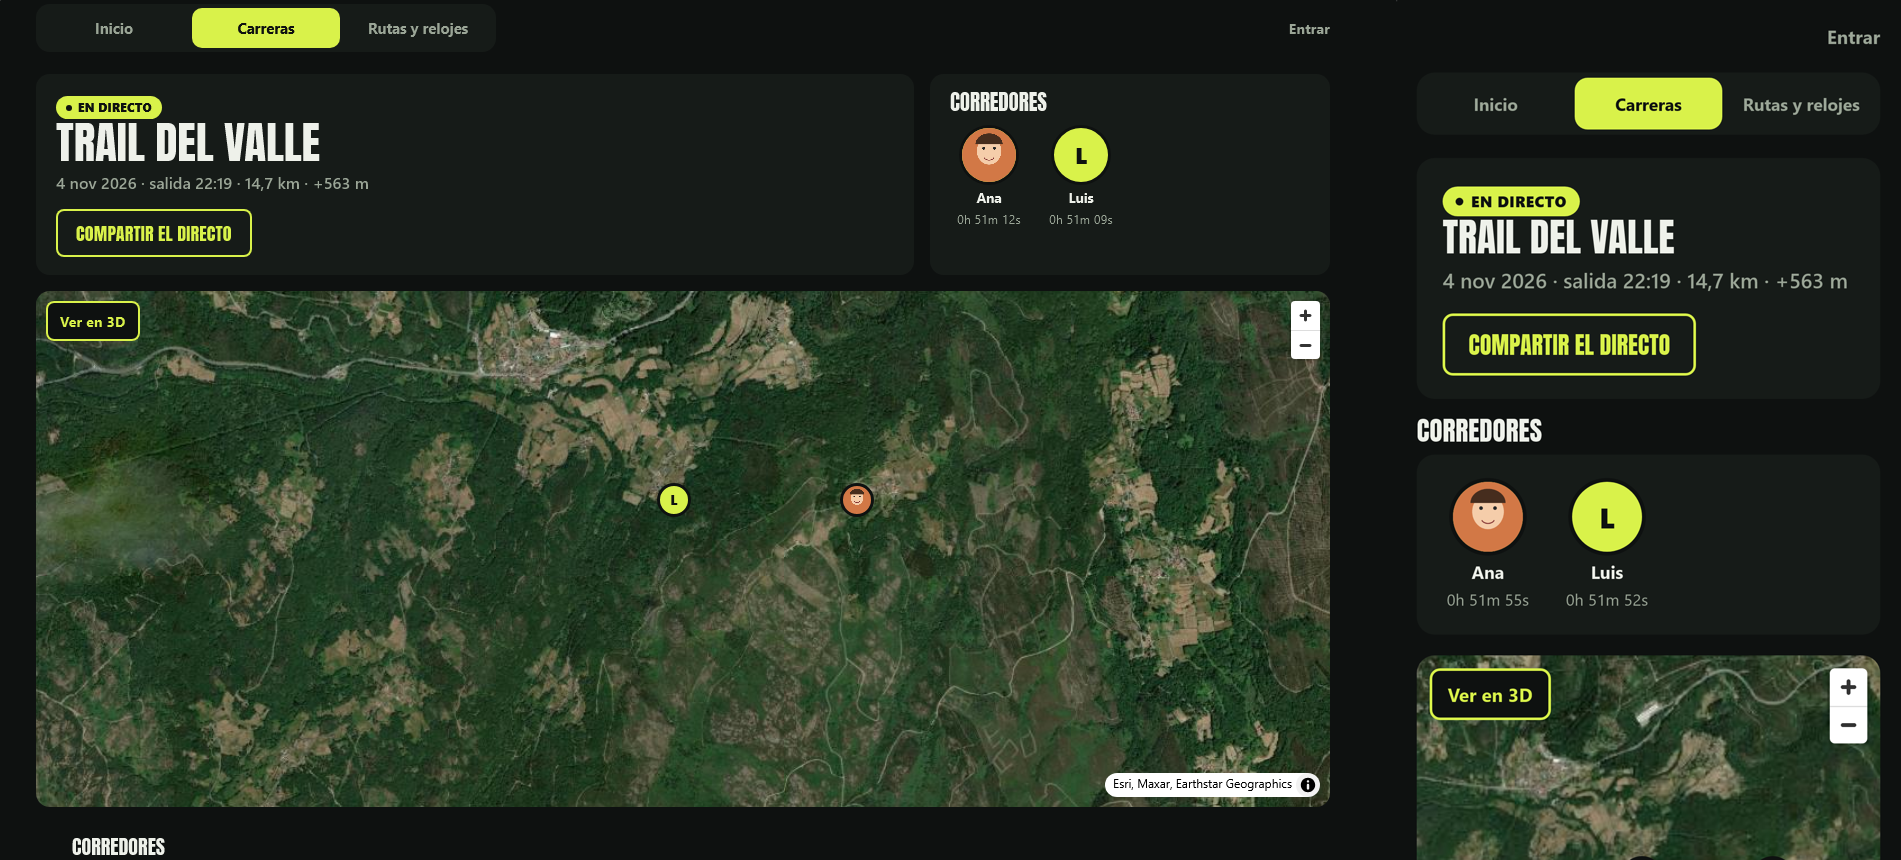
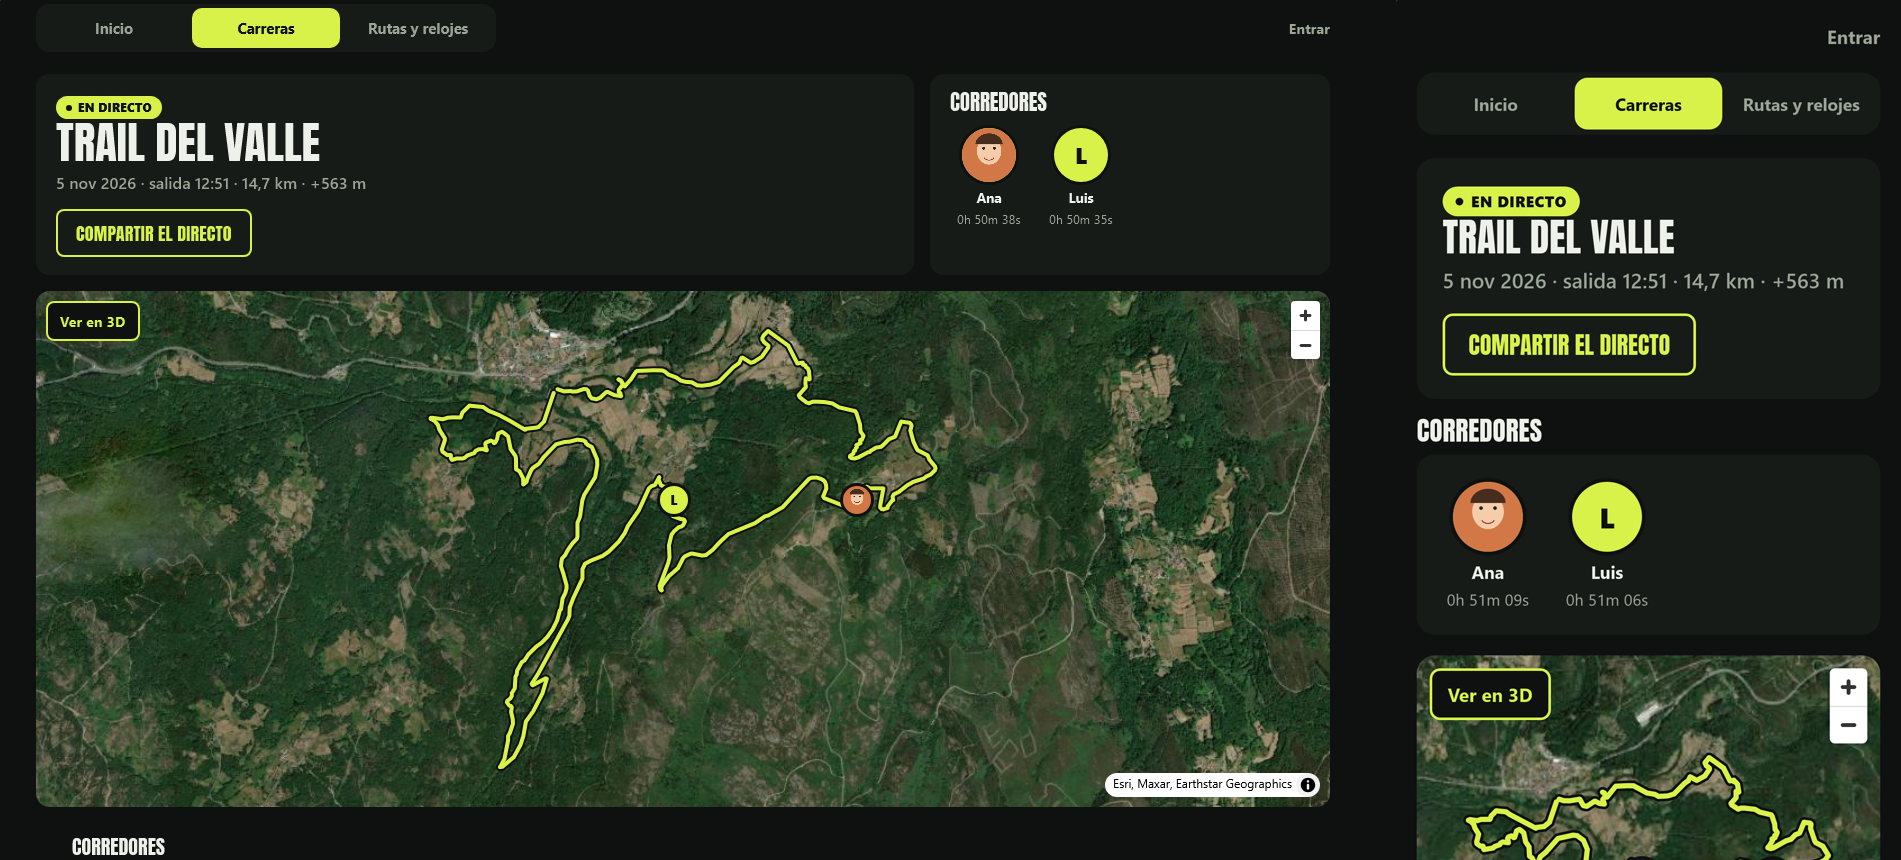
v1.67.2 · Línea del recorrido robusta y capturas nuevas

diff --git a/directo.js b/directo.js
@@ -76,7 +76,7 @@ function pintar(d) {
     b.append(av, n, s); b.addEventListener('click', () => elegir(g.cid)); tira.append(b);
   });
   $('aviso-posicion').hidden = d.corredores.some(g => g.lat != null);
-  if (mapa && mapa.loaded()) pintarMarcas();
+  if (mapa && mapa.isStyleLoaded()) { ponerRuta(d); pintarMarcas(); }
 }
 
 function elegir(cid) { elegido = elegido === cid ? null : cid; pintar(datos); if (elegido) verEnMapa(cid); }
@@ -102,6 +102,14 @@ function pintarMarcas() {
   }
 }
 
+// la línea del recorrido; si con mala cobertura no llegó a ponerse al cargar, se pone en la siguiente actualización
+function ponerRuta(d) {
+  if (!mapa || !mapa.isStyleLoaded() || mapa.getSource('ruta')) return;
+  mapa.addSource('ruta', { type: 'geojson', data: { type: 'Feature', geometry: { type: 'LineString', coordinates: d.ruta } } });
+  mapa.addLayer({ id: 'borde', type: 'line', source: 'ruta', paint: { 'line-color': '#0c0f0e', 'line-width': 8 }, layout: { 'line-cap': 'round', 'line-join': 'round' } });
+  mapa.addLayer({ id: 'linea', type: 'line', source: 'ruta', paint: { 'line-color': '#d9f24a', 'line-width': 4 }, layout: { 'line-cap': 'round', 'line-join': 'round' } });
+}
+
 function arrancarMapa(d) {
   const lons = d.ruta.map(p => p[0]), lats = d.ruta.map(p => p[1]);
   mapa = new maplibregl.Map({ container: 'mapa', attributionControl: { compact: true }, cooperativeGestures: true, maxPitch: 62,
@@ -122,12 +130,7 @@ function arrancarMapa(d) {
     b3.textContent = en3d ? 'Ver en 2D' : 'Ver en 3D'; b3.setAttribute('aria-pressed', String(en3d));
   });
   $('mapa').append(b3);
-  mapa.on('load', () => {
-    mapa.addSource('ruta', { type: 'geojson', data: { type: 'Feature', geometry: { type: 'LineString', coordinates: d.ruta } } });
-    mapa.addLayer({ id: 'borde', type: 'line', source: 'ruta', paint: { 'line-color': '#0c0f0e', 'line-width': 8 }, layout: { 'line-cap': 'round', 'line-join': 'round' } });
-    mapa.addLayer({ id: 'linea', type: 'line', source: 'ruta', paint: { 'line-color': '#d9f24a', 'line-width': 4 }, layout: { 'line-cap': 'round', 'line-join': 'round' } });
-    pintarMarcas();
-  });
+  mapa.on('load', () => { ponerRuta(d); pintarMarcas(); });
   // Safari: si el mapa termina de pintarse fuera de la pantalla, al bajar hasta él sale en negro (lo del 1/11)
   if ('IntersectionObserver' in window) new IntersectionObserver(es => { if (es.some(x => x.isIntersecting)) mapa.triggerRepaint(); }).observe($('mapa'));
 }

diff --git a/directo.html b/directo.html
@@ -64,7 +64,7 @@
 <script src="/avisos-movil.js?v=2"></script>
 <script src="/directo-movil.js?v=3"></script>
 <script src="/foto-corredor.js?v=1"></script>
-<script src="/directo.js?v=15"></script>
+<script src="/directo.js?v=16"></script>
 <script src="/marca-usuario.js?v=2" defer></script>
 </body>
 </html>

diff --git a/README.md b/README.md
@@ -11,7 +11,7 @@
 </p>
 
 <p align="center">
-  <img alt="versión" src="https://img.shields.io/badge/versión-v1.67.1-1f8a4c">
+  <img alt="versión" src="https://img.shields.io/badge/versión-v1.67.2-1f8a4c">
   <img alt="Python" src="https://img.shields.io/badge/servidor-Python%203%20·%20stdlib-3776ab">
   <img alt="MapLibre" src="https://img.shields.io/badge/mapa-MapLibre%204.7-396cb2">
   <img alt="Zepp OS" src="https://img.shields.io/badge/reloj-Zepp%20OS%203-ff6a00">
@@ -137,6 +137,13 @@ deja de verse en cuanto caduca el acceso. Tú, desde la pestaña **Invitados** d
 ves todo lo publicado y puedes quitarlo.
 
 ### Carreras en directo con varios corredores
+
+<p align="center">
+  <img src="docs/capturas/directo.png" width="900" alt="Carrera en directo con dos corredores: ficha con sus fotos, mapa y tiempos, en el ordenador y en el móvil">
+</p>
+<p align="center">
+  <img src="docs/capturas/mis-carreras.png" width="300" alt="Mis carreras: la carrera en directo con ver, invitar, mi móvil y mi foto, retirarme y borrar">
+</p>
 
 Desde **Mis carreras** (el panel o el acceso de un invitado) se crea una **carrera en directo** a partir de
 una ruta: día y hora de salida, y sale sola en la portada y en `/d/<id>`, con el mapa y cada corredor

diff --git a/CHANGELOG.md b/CHANGELOG.md
@@ -4,6 +4,10 @@ Versiones con [SemVer](https://semver.org/lang/es/): la última cifra para
 arreglos, la del medio para funciones nuevas. Cada una tiene su etiqueta y su
 release en GitHub.
 
+## v1.67.2 · 2026-11-05
+- **Directo**: si con mala cobertura el mapa carga sin la línea del recorrido, se vuelve a poner en la siguiente actualización (antes podían salir los corredores sin la línea).
+- **Capturas nuevas** en el README: la carrera en directo con varios corredores, Mis carreras, y de nuevo Inicio, Rutas y el panel con el diseño de ahora.
+
 ## v1.67.1 · 2026-11-04
 - **Directo**: la **llegada prevista** de cada corredor («llega hacia las 12:45»), con su ritmo real y los km que le faltan.
 - **Arreglo**: el ritmo medio se calcula hasta el último punto recibido; antes, sin señal, empeoraba solo mientras el reloj seguía corriendo.
